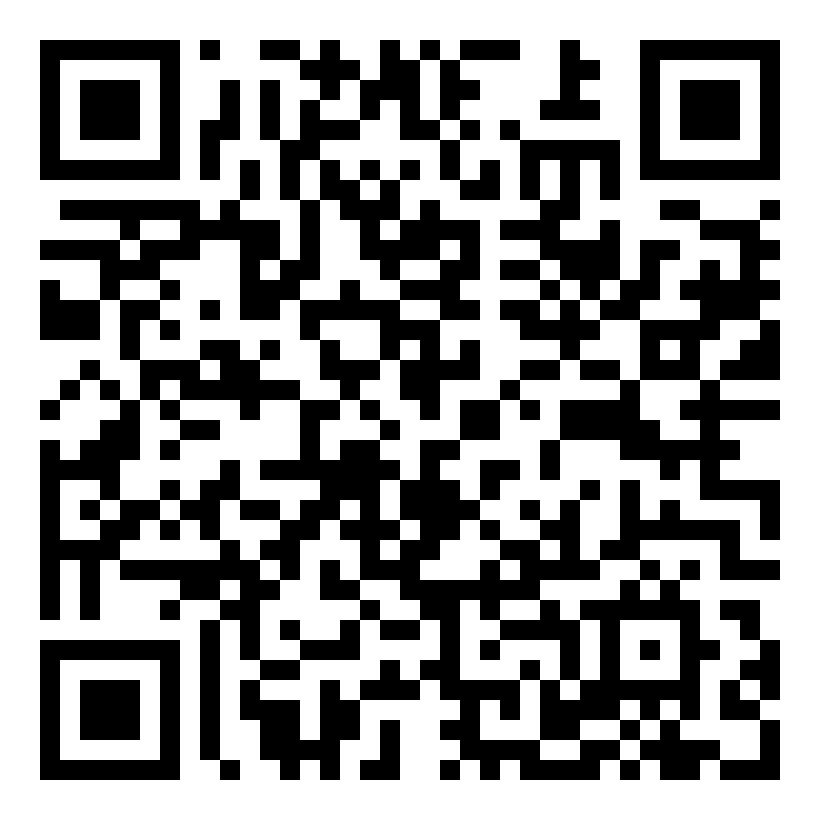
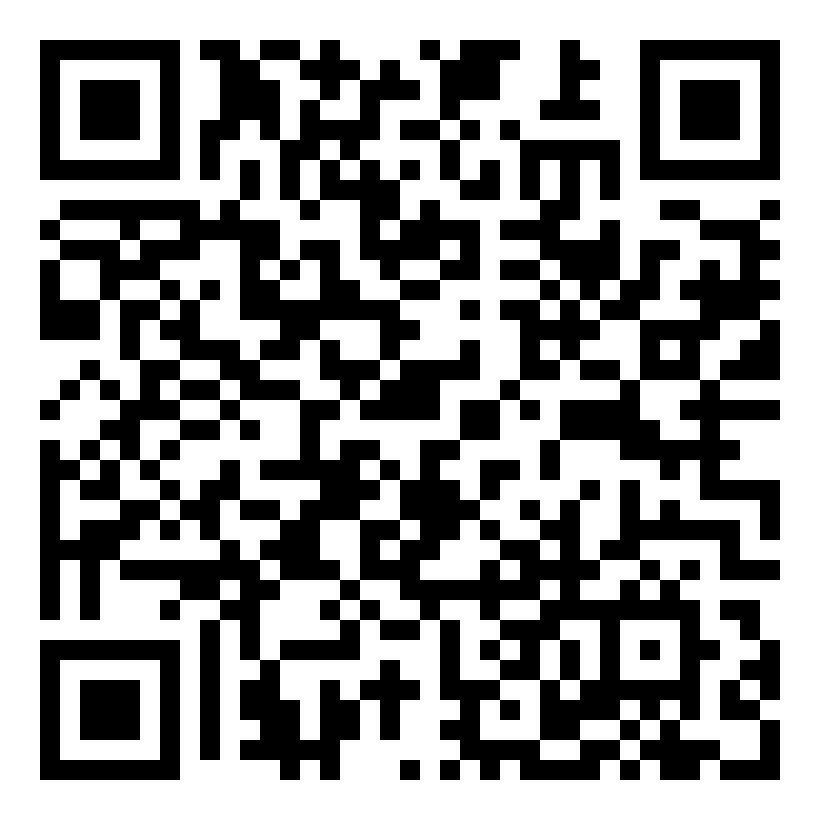
se agrega logs al htmx del formulario

diff --git a/main.go b/main.go
@@ -100,15 +100,101 @@ func RateLimitMiddleware(limiter *IPRateLimiter) gin.HandlerFunc {
 }
 
 func handleRegister(c *gin.Context) {
-	form := `
-	<script src="https://unpkg.com/htmx.org@2.0.1"></script>
-	<form hx-post="/api/v1/capture" hx-swap="outerHTML">
-		<input type="text" name="name" placeholder="Enter your name">
-		<button type="submit">Submit</button>
-	</form>
+	logs, err := readLogs()
+	if err != nil {
+		c.String(http.StatusInternalServerError, "Error reading log file")
+		return
+	}
+
+	// Estilo CSS para los párrafos y el formulario
+	style := `
+	<style>
+		body {
+			font-family: Arial, sans-serif;
+			max-width: 800px;
+			margin: 0 auto;
+			padding: 20px;
+		}
+		.form-container {
+			background-color: #f9f9f9;
+			border: 1px solid #ddd;
+			border-radius: 5px;
+			padding: 20px;
+			margin-bottom: 20px;
+		}
+		input[type="text"] {
+			width: 100%;
+			padding: 10px;
+			margin-bottom: 10px;
+			border: 1px solid #ddd;
+			border-radius: 4px;
+		}
+		button {
+			background-color: #4CAF50;
+			color: white;
+			padding: 10px 15px;
+			border: none;
+			border-radius: 4px;
+			cursor: pointer;
+		}
+		button:hover {
+			background-color: #45a049;
+		}
+		.log-entry {
+			background-color: #f0f0f0;
+			border: 1px solid #ddd;
+			border-radius: 5px;
+			padding: 10px;
+			margin-bottom: 10px;
+		}
+	</style>
 	`
+
+	// Formulario HTML
+	form := `
+	<div class="form-container">
+		<h2>Register</h2>
+		<form hx-post="/api/v1/capture" hx-swap="outerHTML">
+			<input type="text" name="name" placeholder="Enter your name">
+			<button type="submit">Submit</button>
+		</form>
+	</div>
+	`
+
+	// Iniciar el contenido HTML
+	html := style + "<script src='https://unpkg.com/htmx.org@2.0.1'></script>" + form + "<h2>Logs</h2><div>"
+
+	// Procesar cada línea del log
+	scanner := bufio.NewScanner(strings.NewReader(logs))
+	for scanner.Scan() {
+		line := scanner.Text()
+		var logEntry struct {
+			Request *Request `json:"request"`
+			Capture *Capture `json:"capture"`
+		}
+		err := json.Unmarshal([]byte(line), &logEntry)
+		if err != nil {
+			continue
+		}
+
+		entryHTML := fmt.Sprintf(`
+			<div class="log-entry">
+				<strong>ID:</strong> %s<br>
+				<strong>Name:</strong> %s<br>
+				<strong>Capture At:</strong> %s<br>
+				<strong>Method:</strong> %s<br>
+				<strong>URI:</strong> %s
+			</div>
+		`, logEntry.Capture.ID, logEntry.Capture.Name, logEntry.Capture.CaptureAt, 
+		   logEntry.Request.Method, logEntry.Request.URI)
+
+		html += entryHTML
+	}
+
+	html += "</div>"
+
 	c.Header("Content-Type", "text/html")
-	c.String(http.StatusOK, form)
+	c.String(http.StatusOK, html)
 }
 
 func handleCapture(c *gin.Context) {

diff --git a/creation_qr/main.go b/creation_qr/main.go
@@ -9,7 +9,7 @@ import (
 
 func main() {
 	// Creamos un nuevo QR
-	qrc, err := qrcode.New("https://6942-152-203-27-233.ngrok-free.app/api/v1/register")
+	qrc, err := qrcode.New("https://7b05-152-203-27-233.ngrok-free.app/api/v1/register")
 	if err != nil {
 		fmt.Printf("could not generate QRCode: %v", err)
 		return
